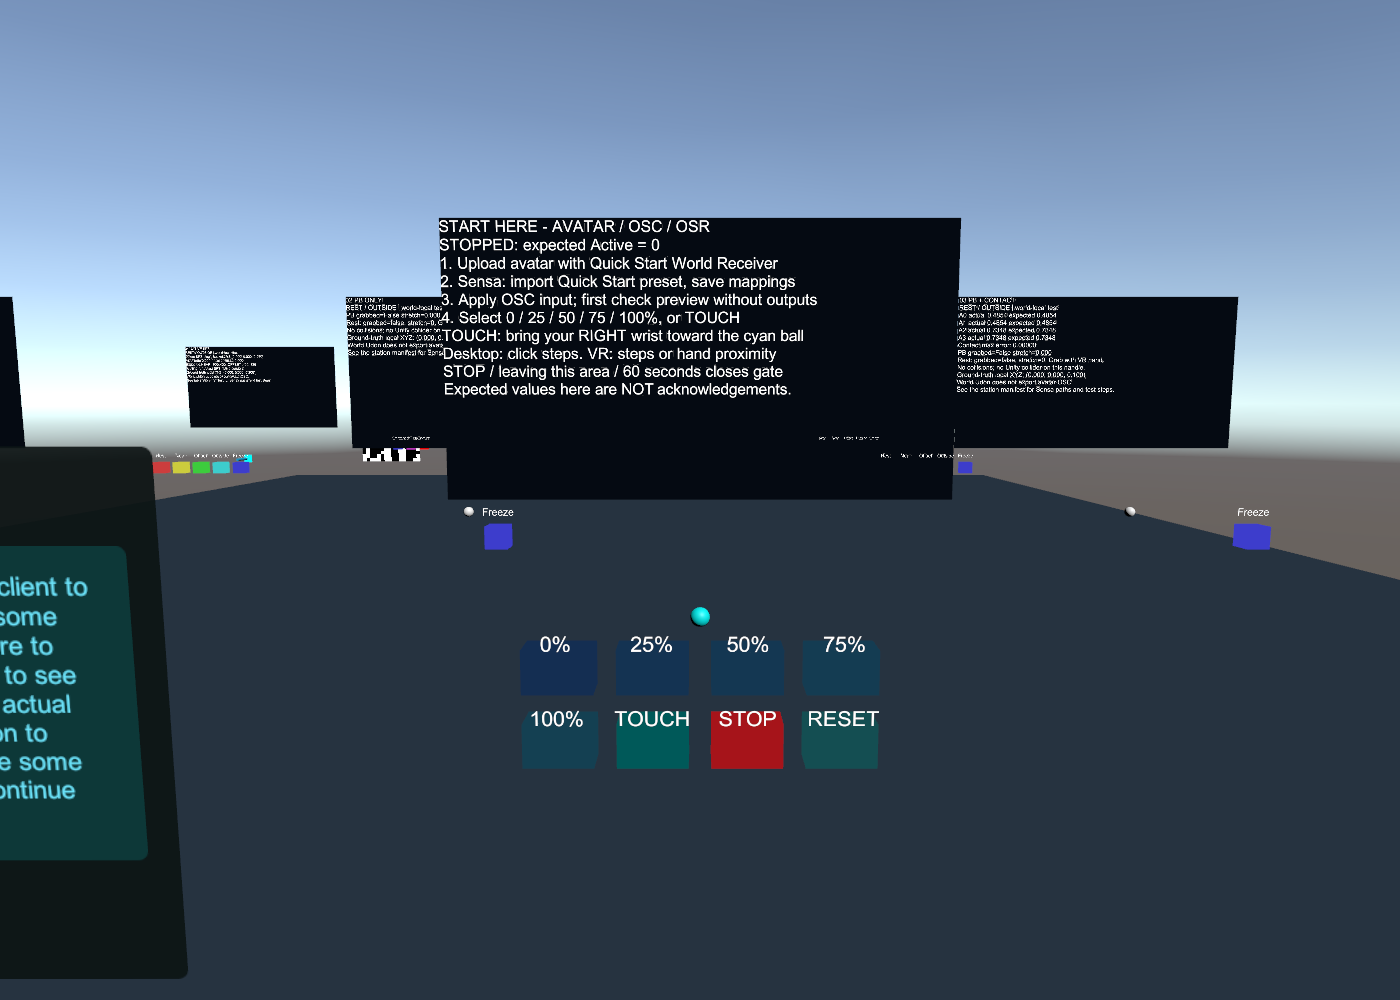
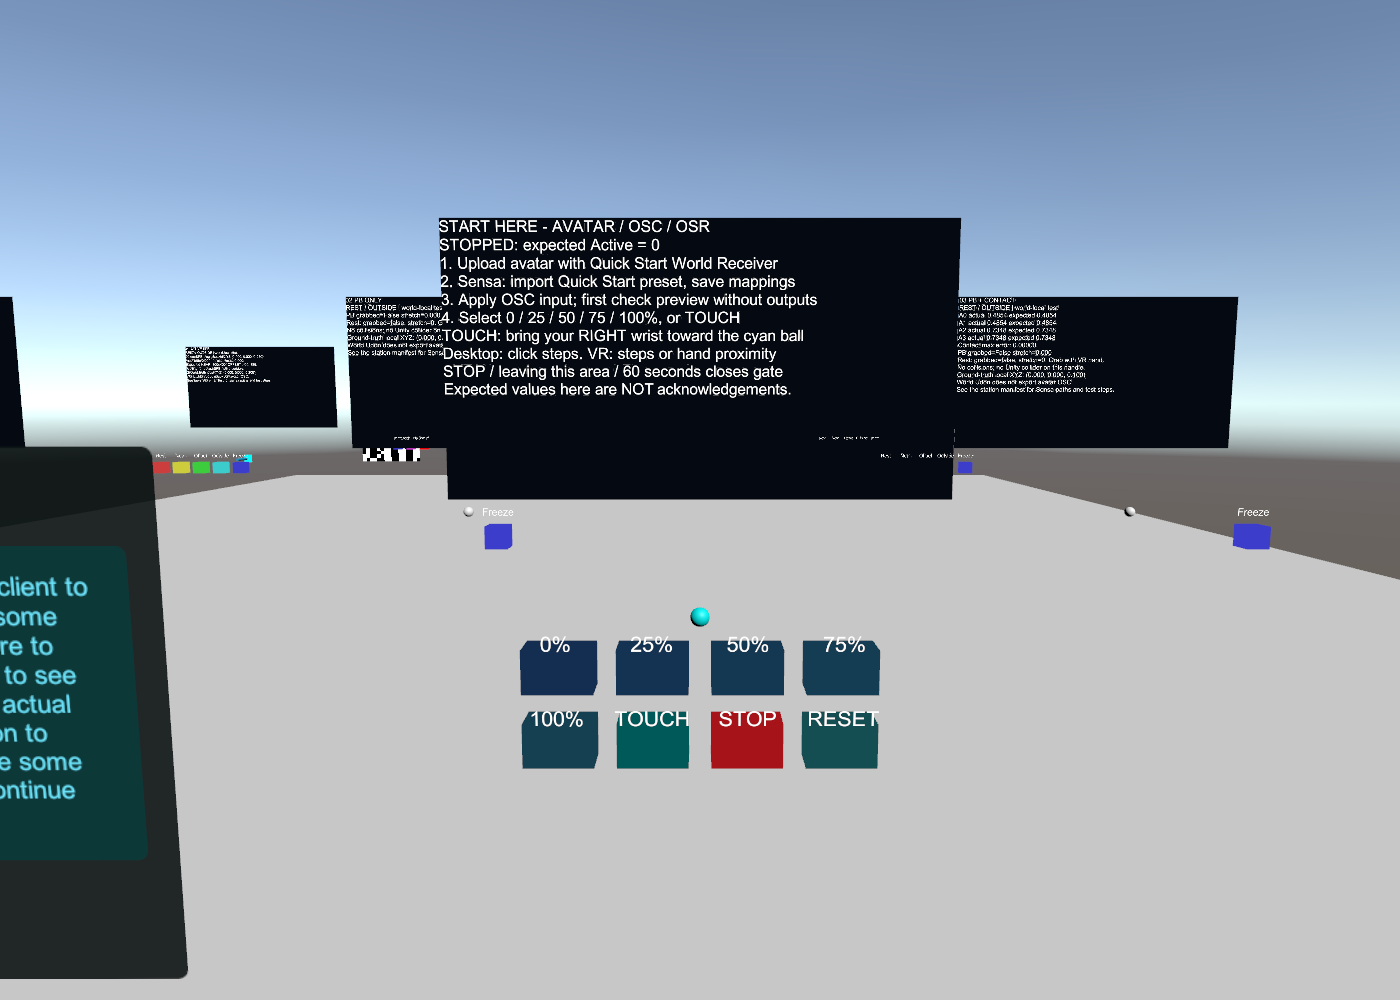
Use neutral grey-white floors in both test worlds

diff --git a/tools/unity-world-lab/Editor/LabPlayability.cs b/tools/unity-world-lab/Editor/LabPlayability.cs
@@ -26,7 +26,7 @@ namespace SensaLab
             var layout=GameObject.Find("Playability layout");if(layout==null)layout=new GameObject("Playability layout");
             var locomotion=layout.GetComponent<LabLocomotion>();if(locomotion==null)locomotion=UdonSharpUndo.AddComponent<LabLocomotion>(layout);UdonSharpEditorUtility.CopyProxyToUdon(locomotion);
             var floor=GameObject.Find("Floor");if(floor==null)throw new InvalidOperationException("Lab floor missing");floor.transform.position=new Vector3(0,-.1f,4);floor.transform.localScale=new Vector3(16,.2f,16);floor.GetComponent<Collider>().enabled=true;
-            floor.GetComponent<Renderer>().sharedMaterial=ColorMaterial("Walkway",new Color(.18f,.23f,.28f));
+            floor.GetComponent<Renderer>().sharedMaterial=ColorMaterial("Walkway",new Color(.78f,.78f,.78f));
             var caseFloor=GameObject.Find("Case area floor");if(caseFloor!=null){caseFloor.GetComponent<Collider>().enabled=false;caseFloor.GetComponent<Renderer>().enabled=false;}
             var spawn=GameObject.Find("Spawn");spawn.transform.position=new Vector3(0,.1f,-2.5f);spawn.transform.rotation=Quaternion.identity;
             Cube(layout.transform,"Boundary left",new Vector3(-8,.5f,4),new Vector3(.15f,1,16));Cube(layout.transform,"Boundary right",new Vector3(8,.5f,4),new Vector3(.15f,1,16));

diff --git a/tools/unity-world-lab/Editor/FunctionalLab.cs b/tools/unity-world-lab/Editor/FunctionalLab.cs
@@ -37,7 +37,7 @@ namespace SensaLab
             var descriptor=new GameObject("World Descriptor").AddComponent<VRCSceneDescriptor>();
             var spawn=new GameObject("Spawn").transform;spawn.position=new Vector3(0,.1f,-2);descriptor.spawns=new[]{spawn};
             UdonSharpUndo.AddComponent<LabLocomotion>(new GameObject("Locomotion"));
-            Cube(null,"Floor",new Vector3(0,-.1f,7),new Vector3(16,.2f,22),new Color(.15f,.2f,.25f),true);
+            Cube(null,"Floor",new Vector3(0,-.1f,7),new Vector3(16,.2f,22),new Color(.78f,.78f,.78f),true);
             var light=new GameObject("Sun").AddComponent<Light>();light.type=LightType.Directional;light.transform.rotation=Quaternion.Euler(40,-30,0);RenderSettings.ambientLight=Color.gray;
             var camera=new GameObject("Reference camera").AddComponent<Camera>();camera.transform.position=new Vector3(0,1.6f,-2);camera.transform.LookAt(new Vector3(0,1.4f,3));descriptor.ReferenceCamera=camera.gameObject;
             var positions=new[]{new Vector3(-4,1,3),new Vector3(0,1,3),new Vector3(4,1,3),new Vector3(-4,1,8),new Vector3(4,1,8),new Vector3(-4,1,13),new Vector3(4,1,13)};

diff --git a/tools/unity-world-lab/Editor/NeutralFloor.cs b/tools/unity-world-lab/Editor/NeutralFloor.cs
@@ -1,0 +1,24 @@
+using System;
+using UnityEditor;
+using UnityEngine;
+
+namespace SensaLab
+{
+    public static class NeutralFloor
+    {
+        [MenuItem("Tools/Sensa Lab/Use neutral grey-white floors")]
+        public static void Apply()
+        {
+            // Edit only the owned materials: preserve scene edits, colliders and layouts.
+            foreach (var path in new[] { "Assets/SensaLab/Functional/Floor.mat", "Assets/SensaLab/Generated/Walkway.mat" })
+            {
+                var material = AssetDatabase.LoadAssetAtPath<Material>(path);
+                if (material == null) throw new InvalidOperationException("Generate the test worlds first: " + path);
+                material.shader = Shader.Find("Unlit/Color");
+                material.color = new Color(.78f, .78f, .78f);
+                EditorUtility.SetDirty(material);
+            }
+            AssetDatabase.SaveAssets();
+        }
+    }
+}

diff --git a/tools/unity-world-lab/README.md b/tools/unity-world-lab/README.md
@@ -1,5 +1,7 @@
 # Sensa 测试世界
 
+两个世界场景统一使用浅灰白纯色地板。生成脚本也采用此配色；已有项目可用 **Tools → Sensa Lab → Use neutral grey-white floors** 更新材质，不改地面碰撞和场景布局。
+
 **新用户请先打开 `Assets/SensaLab/Functional/FunctionalLab.unity`，使用出生点旁的 `00 START HERE`。** 它直接刺激访问者自己 Avatar 的入门接收器，由 VRChat 发 OSC 给 Sensa。组件安装、预设、OSR 连接和预期数值见 [首次使用指南](https://github.com/SeaLoong/Sensa/blob/main/docs/quick-start.md)。无需图像桥接。
 
 该台默认停止；提供五档阶梯、右手腕靠近可拾取测试球、停止和复位。每次操作最多运行 60 秒，离开 3 米或更换 Avatar 会关闭门控。面板标记 Expected，实际接收与输出要在 Sensa 确认。SDK ClientSim 的世界读数不能替代客户端 Avatar OSC 测试。
